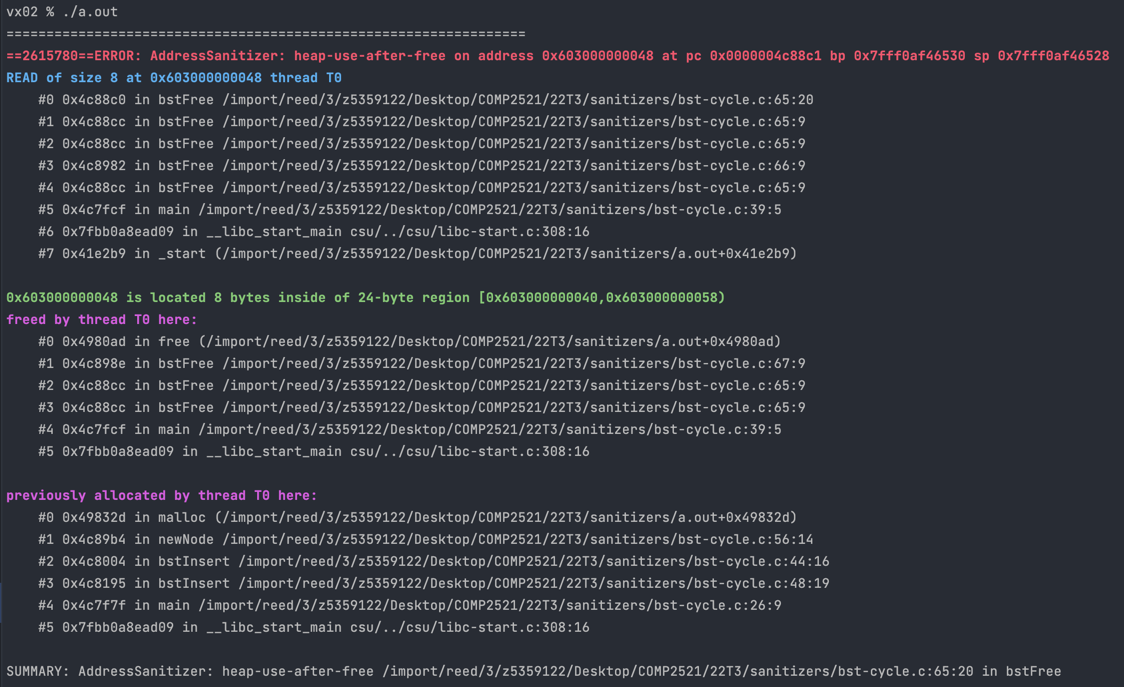
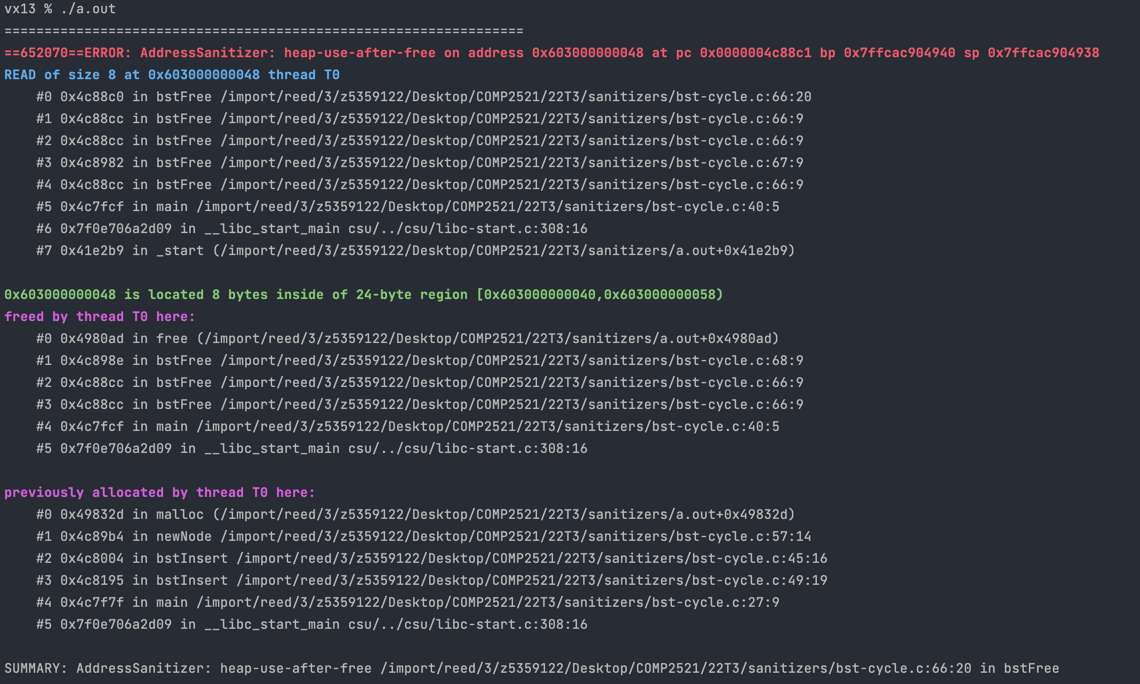
Fix line numbers on bst cycle example

Changed region(s): [[0.0, 0.0, 0.9964, 0.6754], [0.0, 0.7061, 0.7473, 0.9211], [0.0, 0.9518, 0.9342, 0.9825]]

diff --git a/glossary/heap-use-after-free/bst-cycle/bst-cycle.c b/glossary/heap-use-after-free/bst-cycle/bst-cycle.c
@@ -63,7 +63,6 @@ BST *newNode(int value) {
 
 void bstFree(BST *t) {
     if (t != NULL) {
-        printf("Freeing %d\n", t->value);
         bstFree(t->left);
         bstFree(t->right);
         free(t);

diff --git a/glossary/heap-use-after-free/bst-cycle/README.md b/glossary/heap-use-after-free/bst-cycle/README.md
@@ -98,14 +98,14 @@ Here is the error message:
 ![error message](error.png)
 
 - The first stack trace tells us:
-    - The error occurs on line 65 inside `bstFree()` - this line is `if (l->head == NULL) {`
+    - The error occurs on line 66 inside `bstFree()` - this line is `if (l->head == NULL) {`
     - This happened 5 levels of recursion deep
-    - `bstFree()` was initially called from line 39 of `main()`
+    - `bstFree()` was initially called from line 40 of `main()`
 - The second stack trace tells us:
-    - The memory was freed in line 67 inside `bstFree()`
-    - This also happened when we called `bstFree()`on line 39 of `main()`
+    - The memory was freed in line 68 inside `bstFree()`
+    - This also happened when we called `bstFree()`on line 40 of `main()`
 - The final stack trace tells us:
-    - The freed memory was first allocated when we called `bstInsert()` line 26 of `main()` - this is when we inserted 1
+    - The freed memory was first allocated when we called `bstInsert()` line 27 of `main()` - this is when we inserted 1
 
 ## The Problem
 
